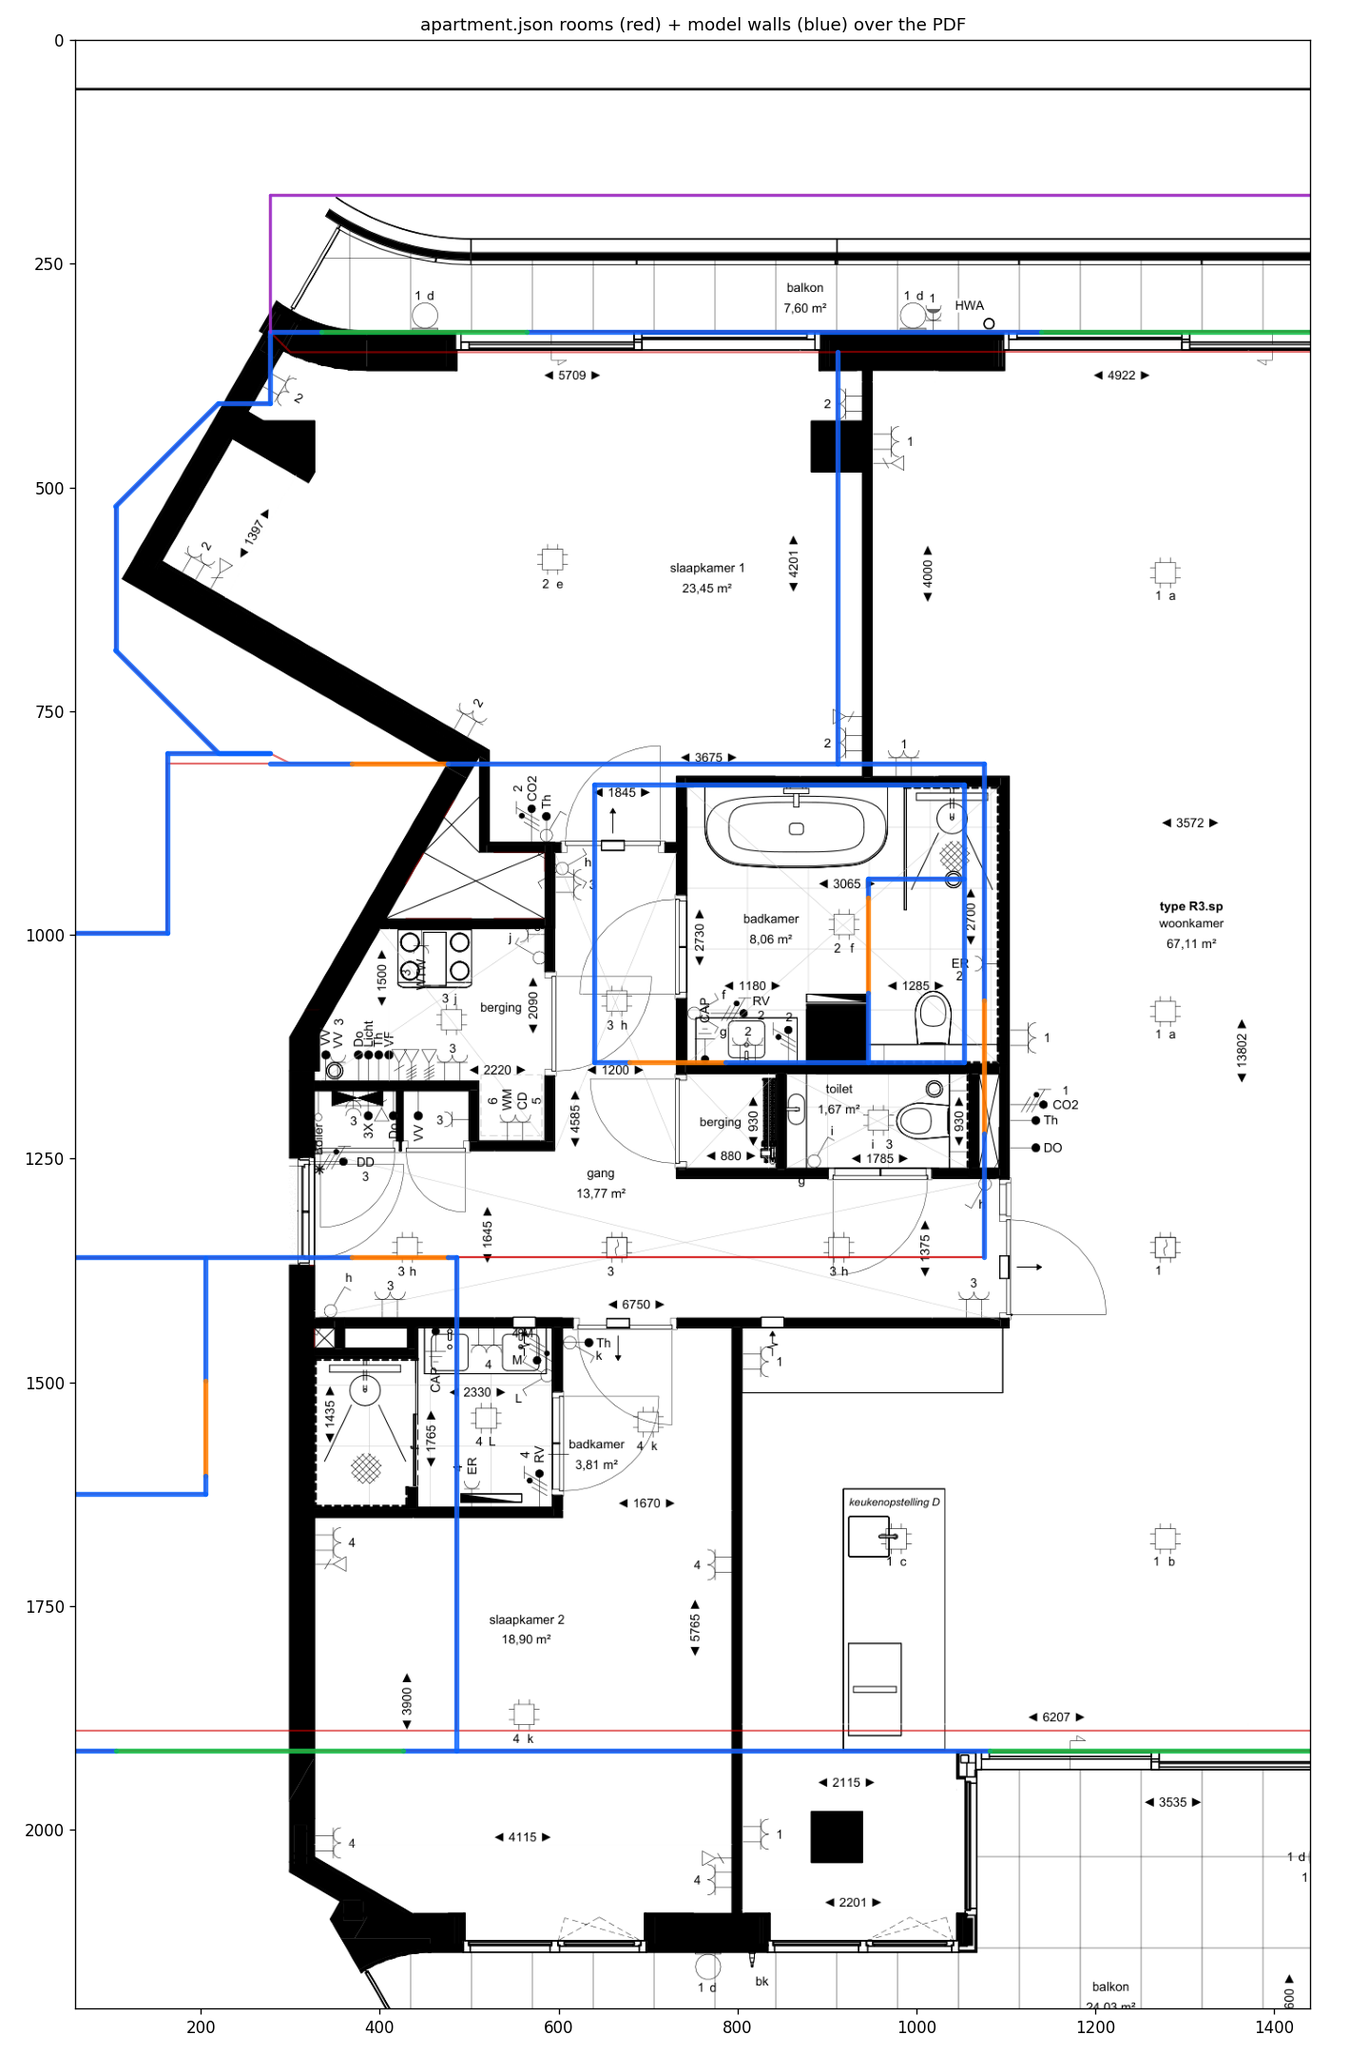
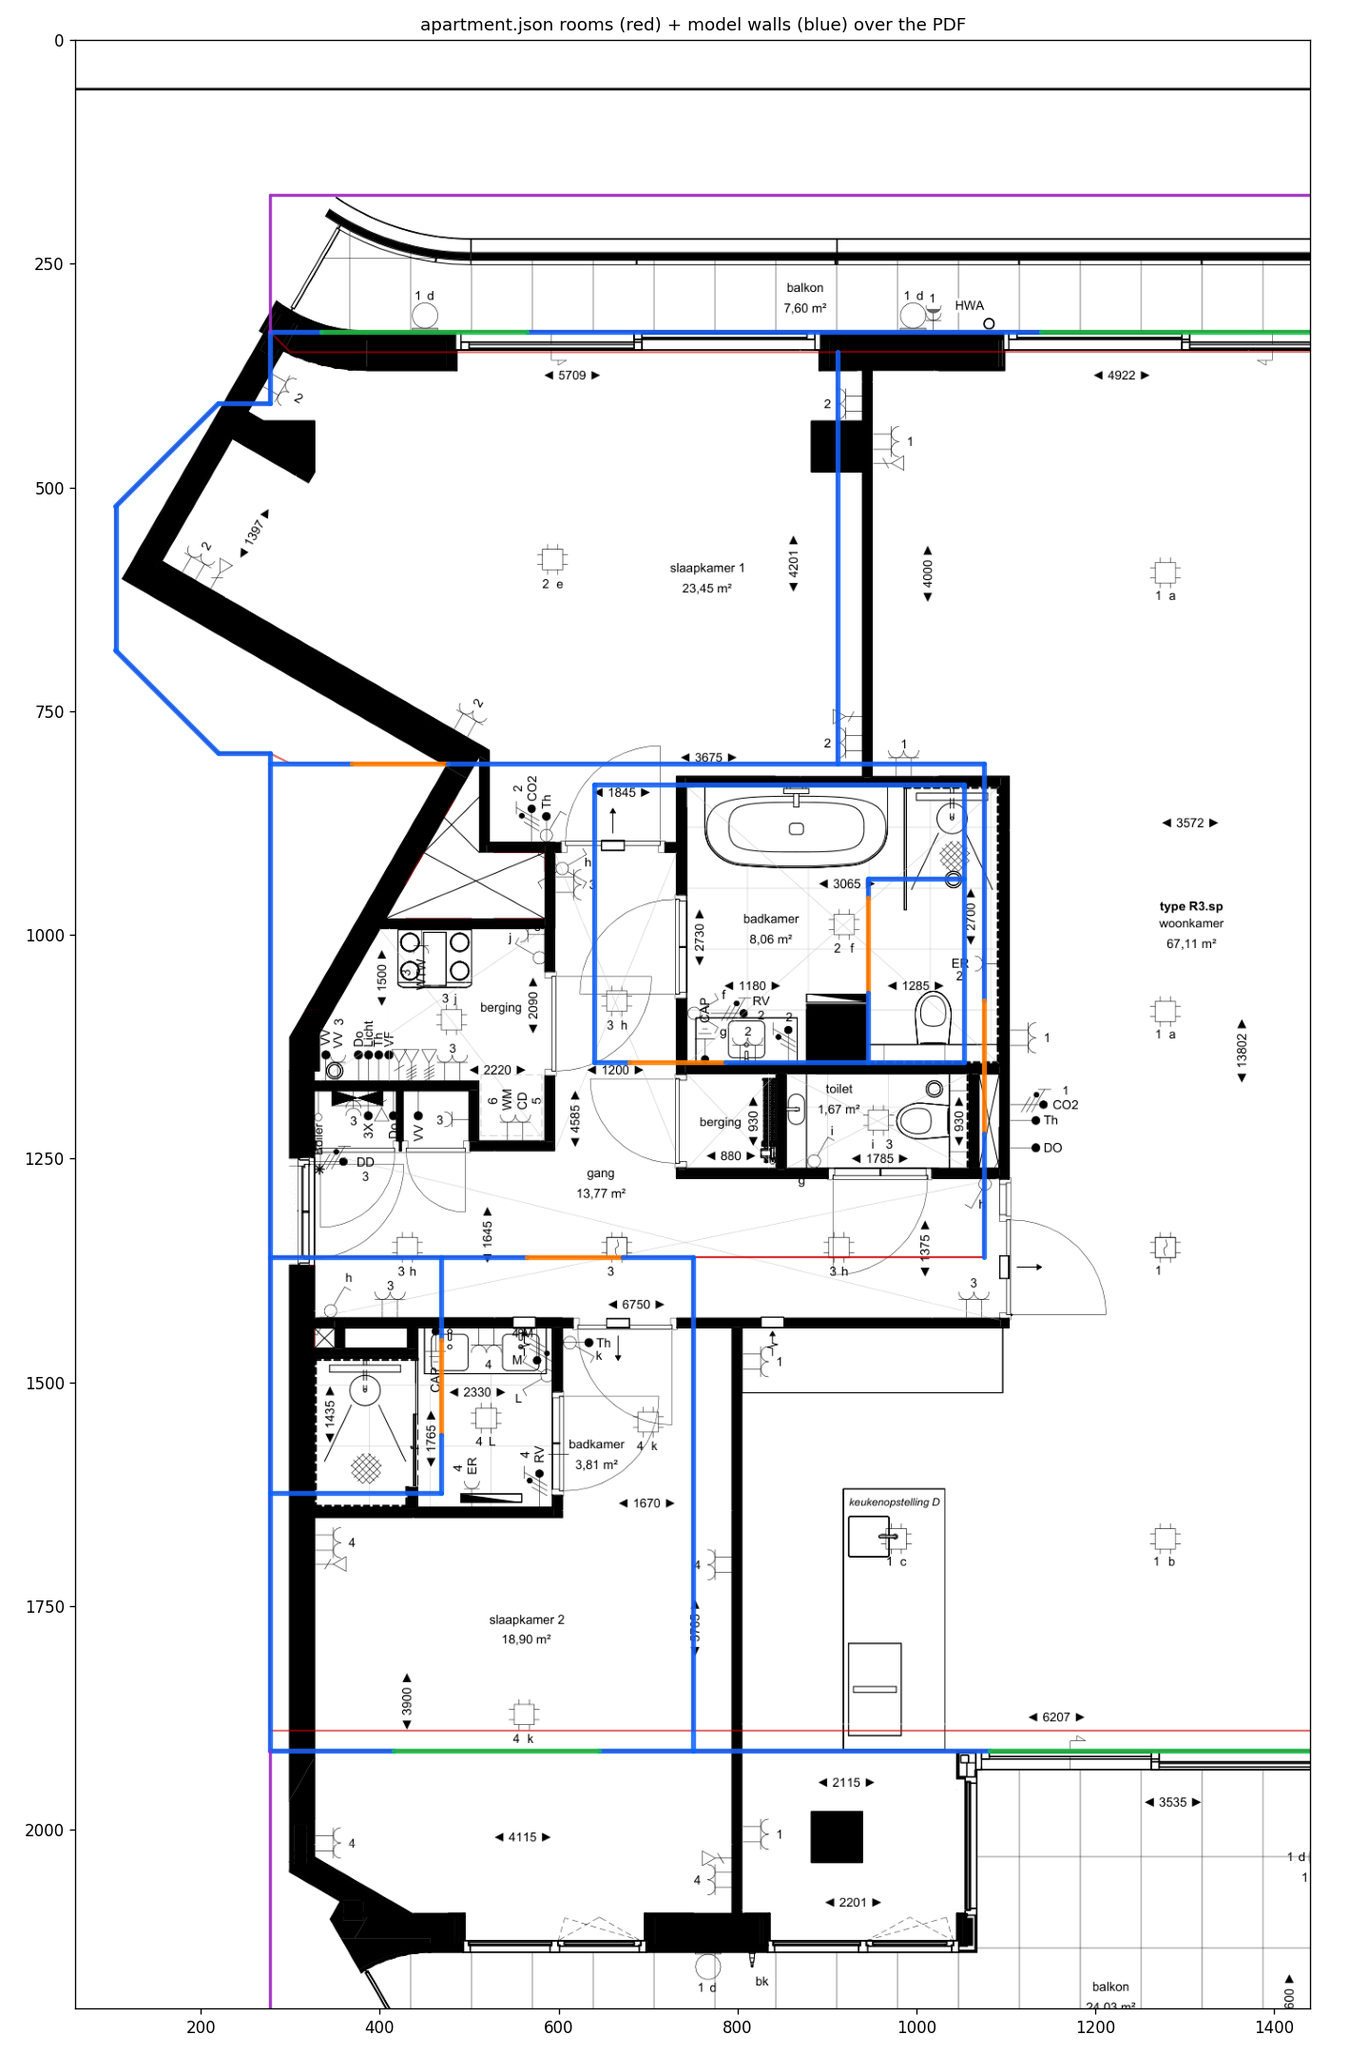
Reconstruct the western/southern geometry to match the full PDF
The old western strip (west facade at x=-2.30, gang west bulge, west balcony)
was the scan's page margin, not apartment. Using the full-page PDF as ground
truth, the apartment is a ~10.7 m-wide rectangle (x 0..10.72) plus the NW
alcove and two balconies.

index.html (APARTMENT_GEOM, ROOMS, floors, lights, furniture, paintings, ENV):
- West outer wall moved from x=-2.30 to x=0 (straight up to the NW zigzag).
- Slaapkamer 2 repositioned to x 0..4.115, z 9..13.602; en-suite badkamer klein
  moved to its NW corner (x 0..1.67, z 9..11.29); door + sliding door updated.
- Removed the phantom gang west bulge and west balcony rail; bottom balcony now
  x 0..10.72. Repositioned slaapk2/en-suite lights, furniture and one painting.

tools/render-floorplan.py + floorplan/apartment.json: same corrected envelope
and room polygons so JSON -> SVG matches the PDF.
tools/plan-overlay.py: robust APARTMENT_GEOM extraction (the closing "\n];").

Checks: plan-overlay PASS (all 50 segments / 88 endpoints within 0.05 m of the
plan); model overlays the full PDF correctly. Remaining ambiguity: the en-suite
is placed on slaapkamer 2's west side per the user; the scan is ambiguous there.
Removed the stale "before" diagnostic PNGs.

diff --git a/index.html b/index.html
@@ -226,7 +226,7 @@ const PH = 0.85;  // painting height
 
 // Apartment envelope (outermost walkable extent, balconies included).
 // Matches the railings at index.html addRailing(...) calls below.
-const ENV = { xMin: -2.30, xMax: 10.72, zMin: -1.331, zMax: 17.402 };
+const ENV = { xMin: -1.55, xMax: 10.72, zMin: -1.331, zMax: 17.402 };
 
 // Ceiling height — must stay in sync with apartment.json:levels[0].ceiling_height_m.
 // init() asserts this matches WALL_HEIGHT.
@@ -246,19 +246,16 @@ const APARTMENT_GEOM = [
   { kind: 'sliding', x1:  7.50, z1:  0.00, x2: 10.20, z2:  0.00 }, // woonkamer
   // --- East facade (no openings)
   { kind: 'wall',    x1: 10.72, z1:  0.00, x2: 10.72, z2: 13.802 },
-  // --- South facade — sliding doors at slaapk2 (x∈[-1.50,1.30]) and woonkamer (x∈[7.00,10.20])
+  // --- South facade — sliding doors at slaapk2 (x∈[1.20,3.20]) and woonkamer (x∈[7.00,10.20])
   { kind: 'wall',    x1: 10.72, z1: 13.802, x2: 10.20, z2: 13.802 },
-  { kind: 'wall',    x1:  7.00, z1: 13.802, x2:  1.30, z2: 13.802 },
-  { kind: 'wall',    x1: -1.50, z1: 13.802, x2: -2.30, z2: 13.802 },
+  { kind: 'wall',    x1:  7.00, z1: 13.802, x2:  3.20, z2: 13.802 },
+  { kind: 'wall',    x1:  1.20, z1: 13.802, x2:  0.00, z2: 13.802 },
   { kind: 'sliding', x1:  7.00, z1: 13.802, x2: 10.20, z2: 13.802 }, // woonkamer
-  { kind: 'sliding', x1: -1.50, z1: 13.802, x2:  1.30, z2: 13.802 }, // slaapk2
-  // --- West facade (with bathroom-jog step). The gang's upper-west boundary
-  // sits at x=-1.00 (matches apartment.json envelope v5/v6 and the gang floor),
-  // then closes east to x=0 at z=4.10 to meet the NW zigzag.
-  { kind: 'wall',    x1: -2.30, z1: 13.802, x2: -2.30, z2:  5.85 },
-  { kind: 'wall',    x1: -2.30, z1:  5.85,  x2: -1.00, z2:  5.85 },
-  { kind: 'wall',    x1: -1.00, z1:  5.85,  x2: -1.00, z2:  4.10 },
-  { kind: 'wall',    x1: -1.00, z1:  4.10,  x2:  0.00, z2:  4.10 },
+  { kind: 'sliding', x1:  1.20, z1: 13.802, x2:  3.20, z2: 13.802 }, // slaapk2
+  // --- West facade. The apartment is ~10.7 m wide: the west outer wall runs
+  // straight at x=0 from the south facade up to the NW zigzag (the model's old
+  // x=-2.30 west bulge/balcony was page margin in the scan, not apartment).
+  { kind: 'wall',    x1:  0.00, z1: 13.802, x2:  0.00, z2:  4.10 },
   // --- NW zigzag (six segments around the lift-shaft alcove). Step coords
   // aligned to apartment.json nw_zigzag; the 1397 mm PDF callout labels the
   // alcove's vertical west face (z 1.70 -> 3.10 = 1.40 m).
@@ -291,17 +288,18 @@ const APARTMENT_GEOM = [
   { kind: 'wall',    x1:  5.818, z1: 5.315, x2:  5.818, z2: 5.50 },
   { kind: 'door',    x1:  5.818, z1: 5.50,  x2:  5.818, z2: 6.43 },
   { kind: 'wall',    x1:  5.818, z1: 6.43,  x2:  5.818, z2: 7.10 },
-  // --- Slaapk2 north wall — door at x∈[0.80, 1.73]
-  { kind: 'wall',    x1: -2.30,  z1: 9.00,  x2:  0.80,  z2: 9.00 },
-  { kind: 'door',    x1:  0.80,  z1: 9.00,  x2:  1.73,  z2: 9.00 },
-  { kind: 'wall',    x1:  1.73,  z1: 9.00,  x2:  1.815, z2: 9.00 },
-  // --- Slaapk2 east wall
-  { kind: 'wall',    x1:  1.815, z1: 9.00,  x2:  1.815, z2: 13.802 },
-  // --- Badkamer klein (en-suite, NW corner of slaapk2) — door on east wall at z∈[10.20, 11.13]
-  { kind: 'wall',    x1: -2.30,  z1: 11.298, x2: -0.63, z2: 11.298 },
-  { kind: 'wall',    x1: -0.63,  z1:  9.009, x2: -0.63, z2: 10.20 },
-  { kind: 'door',    x1: -0.63,  z1: 10.20,  x2: -0.63, z2: 11.13 },
-  { kind: 'wall',    x1: -0.63,  z1: 11.13,  x2: -0.63, z2: 11.298 },
+  // --- Slaapk2 north wall (shared with gang) — door to gang at x∈[2.50, 3.43]
+  { kind: 'wall',    x1:  0.00,  z1: 9.00,  x2:  2.50,  z2: 9.00 },
+  { kind: 'door',    x1:  2.50,  z1: 9.00,  x2:  3.43,  z2: 9.00 },
+  { kind: 'wall',    x1:  3.43,  z1: 9.00,  x2:  4.115, z2: 9.00 },
+  // --- Slaapk2 east wall (party wall with woonkamer)
+  { kind: 'wall',    x1:  4.115, z1: 9.00,  x2:  4.115, z2: 13.802 },
+  // --- Badkamer klein (en-suite) — NW corner of slaapk2, x∈[0,1.67] z∈[9,11.29];
+  //     door from the bedroom on its east wall at z∈[9.80, 10.73].
+  { kind: 'wall',    x1:  1.67,  z1:  9.00,  x2:  1.67, z2:  9.80 },
+  { kind: 'door',    x1:  1.67,  z1:  9.80,  x2:  1.67, z2: 10.73 },
+  { kind: 'wall',    x1:  1.67,  z1: 10.73,  x2:  1.67, z2: 11.29 },
+  { kind: 'wall',    x1:  0.00,  z1: 11.29,  x2:  1.67, z2: 11.29 },
   // --- Woonkamer west wall — open passage to gang at z∈[6.50, 7.80]
   { kind: 'wall',    x1:  6.948, z1: 4.20,  x2:  6.948, z2: 6.50 },
   { kind: 'door',    x1:  6.948, z1: 6.50,  x2:  6.948, z2: 7.80 },
@@ -312,8 +310,8 @@ const APARTMENT_GEOM = [
   { kind: 'railing', x1:  0.00,  z1:  0.00,  x2:  0.00, z2: -1.331 }, // west
   { kind: 'railing', x1: 10.72,  z1:  0.00,  x2: 10.72, z2: -1.331 }, // east
   // --- Bottom balkon railings
-  { kind: 'railing', x1: -2.30,  z1: 17.402, x2: 10.72, z2: 17.402 }, // outer (S)
-  { kind: 'railing', x1: -2.30,  z1: 13.802, x2: -2.30, z2: 17.402 }, // west
+  { kind: 'railing', x1:  0.00,  z1: 17.402, x2: 10.72, z2: 17.402 }, // outer (S)
+  { kind: 'railing', x1:  0.00,  z1: 13.802, x2:  0.00, z2: 17.402 }, // west
   { kind: 'railing', x1: 10.72,  z1: 13.802, x2: 10.72, z2: 17.402 }, // east
 ];
 
@@ -328,7 +326,7 @@ const ROOMS = [
   { id: 'toilet',    name: 'Toilet',            kind: 'tegel', rects: [
       { x1: 5.818, z1: 5.315, x2: 6.748, z2: 7.10 } ] },
   { id: 'badkklein', name: 'Badkamer (klein)',  kind: 'tegel', rects: [
-      { x1: -2.30, z1: 9.009, x2: -0.63, z2: 11.298 } ] },
+      { x1: 0.00, z1: 9.00, x2: 1.67, z2: 11.29 } ] },
   { id: 'badkamer',  name: 'Badkamer',          kind: 'tegel', rects: [
       { x1: 3.158, z1: 4.40,  x2: 6.748, z2: 5.315 },
       { x1: 3.158, z1: 5.315, x2: 5.818, z2: 7.10 } ] },
@@ -337,21 +335,21 @@ const ROOMS = [
       { x1: -0.50, z1: 0.70,  x2: 0.00,  z2: 4.10 },
       { x1: -1.50, z1: 1.70,  x2: -0.50, z2: 3.10 } ] },
   { id: 'slaapk2',   name: 'Slaapkamer 2',      kind: 'hout',  rects: [
-      { x1: -2.30, z1: 9.00,  x2: 1.815, z2: 13.602 } ] },
+      { x1: 1.67, z1: 9.00,  x2: 4.115, z2: 13.602 },
+      { x1: 0.00, z1: 11.29, x2: 1.67,  z2: 13.602 } ] },
   { id: 'gang',      name: 'Gang',              kind: 'hout',  rects: [
-      { x1: -1.00, z1: 4.20,  x2: 6.948, z2: 4.40 },
-      { x1: -1.00, z1: 4.40,  x2: 3.158, z2: 5.85 },
-      { x1: -2.30, z1: 5.85,  x2: 3.158, z2: 7.10 },
-      { x1: -2.30, z1: 7.10,  x2: 6.948, z2: 9.00 },
+      { x1: 0.00, z1: 4.20,  x2: 6.948, z2: 4.40 },
+      { x1: 0.00, z1: 4.40,  x2: 3.158, z2: 7.10 },
+      { x1: 0.00, z1: 7.10,  x2: 6.948, z2: 9.00 },
       { x1: 6.748, z1: 4.40,  x2: 6.948, z2: 7.10 } ] },
   { id: 'woonkamer', name: 'Woonkamer',         kind: 'hout',  rects: [
       { x1: 5.52,  z1: 0.20,  x2: 10.52, z2: 4.20 },
       { x1: 6.948, z1: 4.20,  x2: 10.52, z2: 9.00 },
-      { x1: 1.815, z1: 9.00,  x2: 10.52, z2: 13.602 } ] },
+      { x1: 4.115, z1: 9.00,  x2: 10.52, z2: 13.602 } ] },
   { id: 'balkon_n',  name: 'Balkon (noord)',    kind: 'steen', rects: [
       { x1: 0.00,  z1: -1.331, x2: 10.72, z2: 0.00 } ] },
   { id: 'balkon_z',  name: 'Balkon (zuid)',     kind: 'steen', rects: [
-      { x1: -2.30, z1: 13.802, x2: 10.72, z2: 17.402 } ] },
+      { x1: 0.00, z1: 13.802, x2: 10.72, z2: 17.402 } ] },
 ];
 ROOMS.forEach(r => { r.walls = []; r.floorMeshes = []; });
 
@@ -1690,17 +1688,16 @@ function placeFurniture() {
   // === Toilet (inside badkamer SE: x∈[5.818, 6.748], z∈[5.315, 7.10])
   addToiletBowl(6.28, 6.50, Math.PI);
 
-  // === Slaapkamer 2 (x∈[-2.30, 1.815], z∈[9.00, 13.602])
-  // Badk klein occupies the NW corner so bed goes in the main area
-  // Double bed against east wall, head pointing east
-  addBed(0.85, 12.00, -Math.PI / 2, 2.00, 1.60);
-  // Wardrobe along south wall (facing north)
-  addWardrobe(0.90, 13.40, Math.PI, 1.80, 0.55);
+  // === Slaapkamer 2 (x∈[0, 4.115], z∈[9.00, 13.602]); en-suite in the NW corner
+  // Double bed against the east wall, head pointing east
+  addBed(3.00, 11.60, -Math.PI / 2, 2.00, 1.60);
+  // Wardrobe along the south wall, west of the sliding door (facing north)
+  addWardrobe(0.80, 13.40, Math.PI, 1.50, 0.55);
 
-  // === Badkamer klein (NW of slaapk2, x∈[-2.30, -0.63], z∈[9.009, 11.298])
-  addShowerStall(-1.85, 9.50, 0, 0.90, 0.90);
-  addSink(-0.90, 10.50, -Math.PI / 2, 0.50);
-  addToiletBowl(-1.30, 11.00, Math.PI);
+  // === Badkamer klein (en-suite, NW of slaapk2, x∈[0, 1.67], z∈[9.00, 11.29])
+  addShowerStall(0.45, 9.50, 0, 0.90, 0.90);
+  addSink(1.45, 10.00, -Math.PI / 2, 0.50);
+  addToiletBowl(0.80, 10.90, Math.PI);
 
   // === Woonkamer (L-shape) ===
   // Sofa along east wall facing west, in the north strip
@@ -1739,12 +1736,12 @@ function setupLights() {
     [ 4.65,  5.70, 0xeef4ff, 0.75, 4],  // badkamer (groot) cooler
     [ 6.28,  6.21, 0xeef4ff, 0.55, 3],  // toilet
     [ 2.50,  6.50, 0xfff0d0, 0.85, 6],  // gang (center)
-    [-1.00,  7.50, 0xfff0d0, 0.75, 5],  // gang (west bulge)
-    [ 0.85, 11.50, 0xfff0d0, 0.85, 6],  // slaapkamer 2
-    [-1.46, 10.15, 0xeef4ff, 0.55, 3],  // badkamer klein
+    [ 1.50,  7.50, 0xfff0d0, 0.75, 5],  // gang (west arm)
+    [ 2.80, 11.50, 0xfff0d0, 0.85, 6],  // slaapkamer 2
+    [ 0.80, 10.10, 0xeef4ff, 0.55, 3],  // badkamer klein (en-suite)
     [ 8.00,  2.20, 0xfff0d0, 0.95, 7],  // woonkamer north strip
     [ 8.50,  6.50, 0xfff0d0, 0.95, 7],  // woonkamer middle (dining)
-    [ 4.00, 11.20, 0xfff0d0, 0.95, 7],  // woonkamer south (kitchen)
+    [ 6.50, 11.20, 0xfff0d0, 0.95, 7],  // woonkamer south (kitchen)
     [ 8.50, 11.50, 0xfff0d0, 0.95, 7],  // woonkamer south (east)
   ];
   for (const [x, z, color, intensity, range] of lights) {
@@ -2031,7 +2028,7 @@ function placePaintings() {
     { wx: 10.62, wz:  6.50, ry: -Math.PI / 2 },   // woonkamer east facade, middle
     { wx: 10.62, wz: 11.50, ry: -Math.PI / 2 },   // woonkamer east facade, south extension
     { wx:  5.00, wz: 13.70, ry: Math.PI },        // woonkamer south facade (north-facing)
-    { wx:  1.715, wz: 9.50, ry: -Math.PI / 2 },   // slaapk2 east wall, north of bed (bed footprint x∈[0.05,1.65], z∈[11.00,13.00])
+    { wx:  4.02, wz: 10.20, ry: -Math.PI / 2 },   // slaapk2 east wall, faces west into the room
     { wx:  5.20, wz:  7.20, ry: 0 },              // bathroom south wall (south-facing into gang)
   ];
 

diff --git a/tools/render-floorplan.py b/tools/render-floorplan.py
@@ -104,21 +104,13 @@ def grid():
 def envelope():
     """Apartment outer boundary, replacing the simple chamfer placeholder
     with the multi-segment NW zigzag from the JSON."""
-    env = DATA["envelope_preliminary"]["polygon_clockwise_from_origin"]
     zig = DATA["nw_zigzag"]["points_clockwise_from_top_facade"]
-    # Stitch: take env[0..6] (origin through the south + west_facade jog up to v6),
-    # then walk the zigzag in REVERSE (which goes from top facade down to (0, 4.10)),
-    # then close to env[0].
-    # env vertices: 0=(0,0), 1=(10.72,0), 2=(10.72,13.802), 3=(-2.30,13.802),
-    #               4=(-2.30,5.85), 5=(-1.0,5.85), 6=(-1.0,1.0), 7=(0,0)
-    # Replace v6/v7 transition with the zigzag.
-    pts = env[:6]  # (0,0) → (-2.30,5.85) → (-1.0,5.85)
-    # zigzag from top facade (0,0) heads south; we want to traverse it
-    # in the order that closes the polygon from (-1.0, 5.85) back up to (0, 0).
-    # Insert: from (-1.0, 5.85) → (-1.0, 4.10) (small vertical) → traverse zigzag in
-    # reverse → (0,0).
-    pts.append([-1.0, 4.10])
-    pts.extend(reversed(zig))
+    # The apartment is a ~10.7 m-wide rectangle (x 0..10.72, z 0..13.802) plus
+    # balconies and the NW alcove. The west outer wall runs straight at x=0 from
+    # the south facade up to the NW zigzag. (The old x=-2.30 west bulge was scan
+    # page-margin, not apartment.)
+    pts = [[0.0, 0.0], [10.72, 0.0], [10.72, 13.802], [0.0, 13.802], [0.0, 4.10]]
+    pts.extend(reversed(zig))   # zigzag back up to (0, 0)
     return pts
 
 
@@ -150,8 +142,8 @@ def rooms():
     w = [(5.52, 0.20),          # NW: meets slaapk1 east wall at top facade
          (10.52, 0.20),         # NE corner — top facade interior
          (10.52, 13.602),       # SE corner — east facade interior
-         (1.815, 13.602),       # SW of south extension — meets slaapk2 SE corner
-         (1.815, 9.00),         # NW of south extension — meets slaapk2 NE corner
+         (4.115, 13.602),       # SW of south extension — meets slaapk2 SE corner
+         (4.115, 9.00),         # NW of south extension — meets slaapk2 NE corner
          (6.948, 9.00),         # east to woonkamer west wall (= gang east edge)
          (6.948, 4.20),         # up alongside bathroom block to slaapk1 south
          (5.52, 4.20),          # west back to slaapk1 east wall
@@ -163,15 +155,13 @@ def rooms():
     # slaapk2 (south), from west facade to woonkamer west wall. The
     # bathroom block (drawn after gang) overlays in the middle so the
     # gang appears C-shaped wrapping around the bathrooms.
-    g = [(-1.00, 4.20),   # NW: meets slaapk1 south wall at upper west facade
+    g = [(0.00, 4.20),    # NW: meets slaapk1 south wall at the west facade
          (6.948, 4.20),   # east along slaapk1 south wall to woonkamer west wall
          (6.948, 9.00),   # south along woonkamer west wall to slaapk2 north
-         (-2.30, 9.00),   # west along slaapk2 north wall to lower west facade
-         (-2.30, 5.85),   # north along lower west facade to bathroom-jog step
-         (-1.00, 5.85),   # east across the bathroom-jog horizontal step
+         (0.00, 9.00),    # west along slaapk2 north wall to the west facade
         ]
     R.append({"name": "gang", "label": "13,77 m²", "fill": "#fcf6e3",
-              "polygon": g, "centroid": (-0.50, 7.50)})
+              "polygon": g, "centroid": (1.80, 7.50)})
 
     # Bathroom block: x=3.158–6.748, y=4.40–7.10 (3.59 × 2.70 = 9.69 m²).
     # East wall (x=6.748) is the shared wall with woonkamer (whose
@@ -194,14 +184,14 @@ def rooms():
               "polygon": t, "centroid": (6.28, 6.21)})
 
     # slaapkamer 2 — 4.115 × 4.593, SW area
-    s2 = [(-2.30, 9.009), (1.815, 9.009), (1.815, 13.602), (-2.30, 13.602)]
+    s2 = [(0.00, 9.00), (4.115, 9.00), (4.115, 13.602), (0.00, 13.602)]
     R.append({"name": "slaapkamer 2", "label": "18,90 m²", "fill": "#fff4e6",
-              "polygon": s2, "centroid": (0.9, 11.3)})
+              "polygon": s2, "centroid": (2.60, 12.20)})
 
-    # badkamer (klein) — en-suite inside slaapk2's WEST (LEFT) side, north corner
-    bk = [(-2.30, 9.009), (-0.63, 9.009), (-0.63, 11.298), (-2.30, 11.298)]
+    # badkamer (klein) — en-suite in slaapk2's NW corner
+    bk = [(0.00, 9.00), (1.67, 9.00), (1.67, 11.29), (0.00, 11.29)]
     R.append({"name": "badkamer (klein)", "label": "3,81 m²", "fill": "#eaf6ec",
-              "polygon": bk, "centroid": (-1.46, 10.15)})
+              "polygon": bk, "centroid": (0.83, 10.10)})
 
     # balkon (top) — spans FULL apartment top facade width (user-confirmed)
     bt = [(0.00, -1.331), (10.72, -1.331), (10.72, 0.0), (0.00, 0.0)]
@@ -209,9 +199,9 @@ def rooms():
               "polygon": bt, "centroid": (5.0, -0.6)})
 
     # balkon (bottom) — spans FULL south facade width (user-confirmed)
-    bb = [(-2.30, 13.802), (10.72, 13.802), (10.72, 17.402), (-2.30, 17.402)]
+    bb = [(0.00, 13.802), (10.72, 13.802), (10.72, 17.402), (0.00, 17.402)]
     R.append({"name": "balkon", "label": "24,03 m² (labelled)", "fill": "#dde6dc",
-              "polygon": bb, "centroid": (4.2, 15.6)})
+              "polygon": bb, "centroid": (5.30, 15.6)})
 
     return R
 

diff --git a/tools/plan-overlay.py b/tools/plan-overlay.py
@@ -51,7 +51,7 @@ KIND_STYLE = {
 def parse_apartment_geom():
     """Pull the APARTMENT_GEOM array out of index.html as a list of dicts."""
     src = INDEX.read_text()
-    m = re.search(r"const APARTMENT_GEOM\s*=\s*\[(.*?)\];", src, re.S)
+    m = re.search(r"const APARTMENT_GEOM\s*=\s*\[(.*?)\n\];", src, re.S)
     if not m:
         raise SystemExit("Could not find APARTMENT_GEOM in index.html")
     body = m.group(1)
